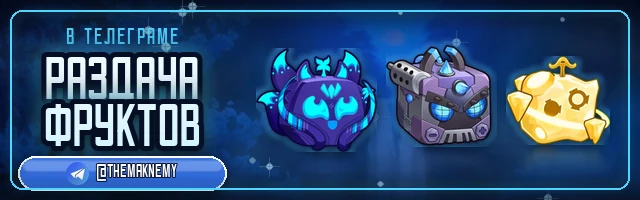
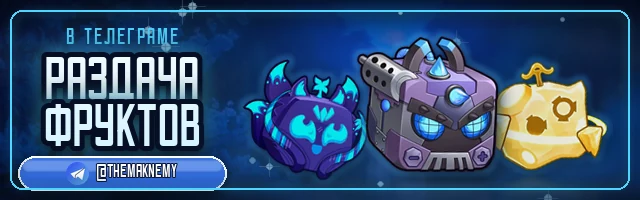
feat(promo): композиция вместо ряда — герой, наклоны, планы
Три предмета, выставленные в линейку одинакового размера, читались как
таблица товаров. Теперь раскладка задана таблицей LAYOUTS: мех — герой, он
крупнее в полтора раза, стоит выше и перекрывает соседей; боковые развёрнуты
в разные стороны на 12-14 градусов, посажены ниже и приглушены на план назад.
У борта предметы идут зигзагом, у дока своя строка размеров: при пропорции
3.2:1 против 4:1 у полосы общие доли сажали предметы друг на друга.

Свет и отражение под предметом считаются по силуэту, а не по холсту: после
поворота вокруг арта остаётся прозрачная кайма, и по холсту они уезжали вниз.
Приглушение заднего плана идёт по RGB отдельно от альфы — Brightness на RGBA
множит и её тоже, предмет становился полупрозрачным.

Changed region(s): [[0.375, 0.15, 0.9688, 0.9], [0.5938, 0.9, 0.875, 1.0], [0.5312, 0.99, 0.5625, 1.0]]

diff --git a/tools/make-giveaway-creatives.py b/tools/make-giveaway-creatives.py
@@ -57,13 +57,42 @@ T_HEAD = ["РАЗДАЧА", "ФРУКТОВ"]
 T_HEAD_ONE = "РАЗДАЧА ФРУКТОВ"
 T_TG = "@THEMAKNEMY"
 
-# Три фрукта в порядке показа. Хвост — вес размера: мех крупнее остальных,
-# золотой фрукт мельче, иначе ряд читается как лестница.
-FRUITS = [
-    ("giveaway-fruit-kitsune.webp", 1.00),
-    ("giveaway-fruit-mech.webp", 1.06),
-    ("giveaway-fruit-gold.webp", 0.86),
-]
+KITSUNE = "giveaway-fruit-kitsune.webp"
+MECH = "giveaway-fruit-mech.webp"
+GOLD = "giveaway-fruit-gold.webp"
+
+# Раскладка предметов: (арт, мерить по "h" или "w", доля холста, центр в долях
+# холста, наклон в градусах, герой ли). Ряд из трёх одинаковых артов в линейку
+# читается как таблица товаров, поэтому композиция строится иначе: мех — герой,
+# он крупнее, стоит выше и перекрывает соседей, боковые развёрнуты в разные
+# стороны, посажены ниже и приглушены на план назад. Порядок в списке — порядок
+# отрисовки, герой всегда последний.
+LAYOUTS = {
+    "strip": [
+        (KITSUNE, "h", 0.620, (0.500, 0.590), -13, False),
+        (GOLD, "h", 0.600, (0.862, 0.580), 12, False),
+        (MECH, "h", 0.820, (0.680, 0.500), -4, True),
+    ],
+    # У дока пропорции другие (3.2:1 против 4:1), поэтому при тех же долях
+    # предметы лезли бы друг на друга: своя строка, размеры мельче.
+    "dock": [
+        (KITSUNE, "h", 0.550, (0.478, 0.600), -13, False),
+        (GOLD, "h", 0.530, (0.845, 0.575), 12, False),
+        (MECH, "h", 0.750, (0.672, 0.500), -4, True),
+    ],
+    "popup": [
+        (KITSUNE, "h", 0.265, (0.172, 0.650), -14, False),
+        (GOLD, "h", 0.262, (0.828, 0.628), 13, False),
+        (MECH, "h", 0.385, (0.500, 0.520), -4, True),
+    ],
+    # Борт узкий и длинный: предметы идут зигзагом, иначе столбик по центру
+    # выглядит списком.
+    "rail": [
+        (KITSUNE, "w", 0.720, (0.440, 0.305), -12, False),
+        (GOLD, "w", 0.660, (0.400, 0.735), 12, False),
+        (MECH, "w", 0.800, (0.550, 0.525), -4, True),
+    ],
+}
 
 
 # ===========================================================================
@@ -246,20 +275,33 @@ def rim(im, colour, width=6, alpha=190):
     return layer
 
 
+def darken(im, k):
+    """Приглушить арт, не трогая альфу: Brightness множит и её тоже."""
+    r, g, b, a = im.split()
+    rgb = ImageEnhance.Brightness(Image.merge("RGB", (r, g, b))).enhance(k)
+    return Image.merge("RGBA", rgb.split() + (a,))
+
+
 def pedestal(img, im, x, y, colour=(60, 150, 235)):
-    """Свет и короткое отражение под предметом: он стоит, а не висит."""
+    """Свет и короткое отражение под предметом: он стоит, а не висит.
+
+    Меряем по силуэту, а не по холсту: после поворота вокруг арта остаётся
+    прозрачная кайма, и без этого свет с отражением уезжали бы вниз.
+    """
     w, h = img.size
-    cx, cy = x + im.width / 2, y + im.height * 0.96
-    img.alpha_composite(radial_layer((w, h), cx, cy, im.width * 0.46, im.height * 0.16,
-                                     colour, 170, blur_div=14))
-    ref = im.transpose(Image.FLIP_TOP_BOTTOM)
-    ref = ref.crop((0, 0, ref.width, round(ref.height * 0.38)))
+    bb = im.split()[3].getbbox() or (0, 0, im.width, im.height)
+    l, t, r, b = bb
+    iw, ih = r - l, b - t
+    img.alpha_composite(radial_layer((w, h), x + (l + r) / 2, y + b - ih * 0.04,
+                                     iw * 0.46, ih * 0.16, colour, 170, blur_div=14))
+    ref = im.crop(bb).transpose(Image.FLIP_TOP_BOTTOM)
+    ref = ref.crop((0, 0, iw, round(ih * 0.38)))
     m = Image.new("L", ref.size)
     d = ImageDraw.Draw(m)
     for yy in range(ref.height):
         d.line([(0, yy), (ref.width, yy)], fill=round(64 * (1 - yy / ref.height) ** 2))
     ref.putalpha(ImageChops.multiply(ref.split()[3], m))
-    img.alpha_composite(ref.filter(ImageFilter.GaussianBlur(4)), (x, round(y + im.height)))
+    img.alpha_composite(ref.filter(ImageFilter.GaussianBlur(4)), (x + l, y + b))
 
 
 def place_fruit(img, im, x, y, glow_col=(70, 170, 245)):
@@ -273,48 +315,20 @@ def place_fruit(img, im, x, y, glow_col=(70, 170, 245)):
     img.alpha_composite(im, (x, y))
 
 
-def fruit_row(img, box, base_h, lift=0.07):
-    """Три фрукта в ряд. Ряд собирается целиком и при нужде ужимается под
-    ширину: иначе золотой фрукт вылезал бы за борт раньше остальных."""
-    x0, y0, x1, y1 = box
-    gap = round((x1 - x0) * 0.035)
-    ims = [scaled(art(n), h=round(base_h * k)) for n, k in FRUITS]
-    total = sum(i.width for i in ims) + gap * (len(ims) - 1)
-    room = x1 - x0
-    if total > room:
-        k = room / total
-        ims = [scaled(i, h=max(1, round(i.height * k))) for i in ims]
-        gap = round(gap * k)
-        total = sum(i.width for i in ims) + gap * (len(ims) - 1)
-    x = round(x0 + (room - total) / 2)
-    cy = (y0 + y1) / 2
-    for i, im in enumerate(ims):
-        # Средний фрукт приподнят: ряд из трёх одинаково посаженных артов
-        # читается как таблица, а не как витрина.
-        y = round(cy - im.height / 2 - (im.height * lift if i == 1 else 0))
+def scatter(img, slot):
+    """Разложить предметы по таблице LAYOUTS: наклон, план, перекрытия."""
+    w, h = img.size
+    for name, by, size, (fx, fy), rot, front in LAYOUTS[slot]:
+        im = art(name)
+        im = scaled(im, h=round(size * h)) if by == "h" else scaled(im, w=round(size * w))
+        if not front:
+            im = darken(im, 0.92)
+        if rot:
+            im = im.rotate(rot, resample=Image.BICUBIC, expand=True)
+        x = round(fx * w - im.width / 2)
+        y = round(fy * h - im.height / 2)
         pedestal(img, im, x, y)
-        place_fruit(img, im, x, y)
-        x += im.width + gap
-
-
-def fruit_column(img, box, base_w):
-    """Те же три фрукта столбиком — для борта 320x1200."""
-    x0, y0, x1, y1 = box
-    ims = [scaled(art(n), w=round(base_w * k)) for n, k in FRUITS]
-    gap = max(8, round(((y1 - y0) - sum(i.height for i in ims)) / len(ims)))
-    total = sum(i.height for i in ims) + gap * (len(ims) - 1)
-    if total > (y1 - y0):
-        k = (y1 - y0) / total
-        ims = [scaled(i, w=max(1, round(i.width * k))) for i in ims]
-        gap = round(gap * k)
-        total = sum(i.height for i in ims) + gap * (len(ims) - 1)
-    y = round(y0 + ((y1 - y0) - total) / 2)
-    cx = (x0 + x1) / 2
-    for im in ims:
-        x = round(cx - im.width / 2)
-        pedestal(img, im, x, y)
-        place_fruit(img, im, x, y)
-        y += im.height + gap
+        place_fruit(img, im, x, y, glow_col=(70, 170, 245) if front else (52, 138, 214))
 
 
 # ===========================================================================
@@ -406,7 +420,7 @@ def build(slot, w, h):
     if slot == "popup":
         tracked(d, (w / 2, 76), T_EYEBROW, font(40), CYAN + (255,), 8)
         poster_text(img, (w / 2, 170), T_HEAD_ONE, fit(d, T_HEAD_ONE, w - 120, 116))
-        fruit_row(img, (24, 282, w - 24, 618), 352)
+        scatter(img, slot)
         tg_button(img, w / 2, 706, 540, 92)
         frame(img, CYAN, 18, 30, 3)
         return img
@@ -416,7 +430,7 @@ def build(slot, w, h):
         f = fit(d, "ФРУКТОВ", w - 40, 84)
         for i, line in enumerate(T_HEAD):
             poster_text(img, (w / 2, 126 + i * 80), line, f)
-        fruit_column(img, (14, 250, w - 14, h - 160), int(w * 0.82))
+        scatter(img, slot)
         tg_button(img, w / 2, h - 82, w - 36, 70)
         frame(img, CYAN, 11, 16, 3)
         return img
@@ -432,8 +446,7 @@ def build(slot, w, h):
     for i, line in enumerate(T_HEAD):
         poster_text(img, (cx, int(h * (0.42 + 0.235 * i))), line, f)
     tg_button(img, cx, int(h * 0.865), colw * 0.96, int(h * 0.17))
-    fruit_row(img, (int(w * 0.40), int(h * 0.06), int(w * 0.955), int(h * 0.94)),
-              int(h * (0.76 if big else 0.72)))
+    scatter(img, slot)
     frame(img, CYAN, 16 if big else 10, 18 if big else 12, 3 if big else 2)
     return img
 
